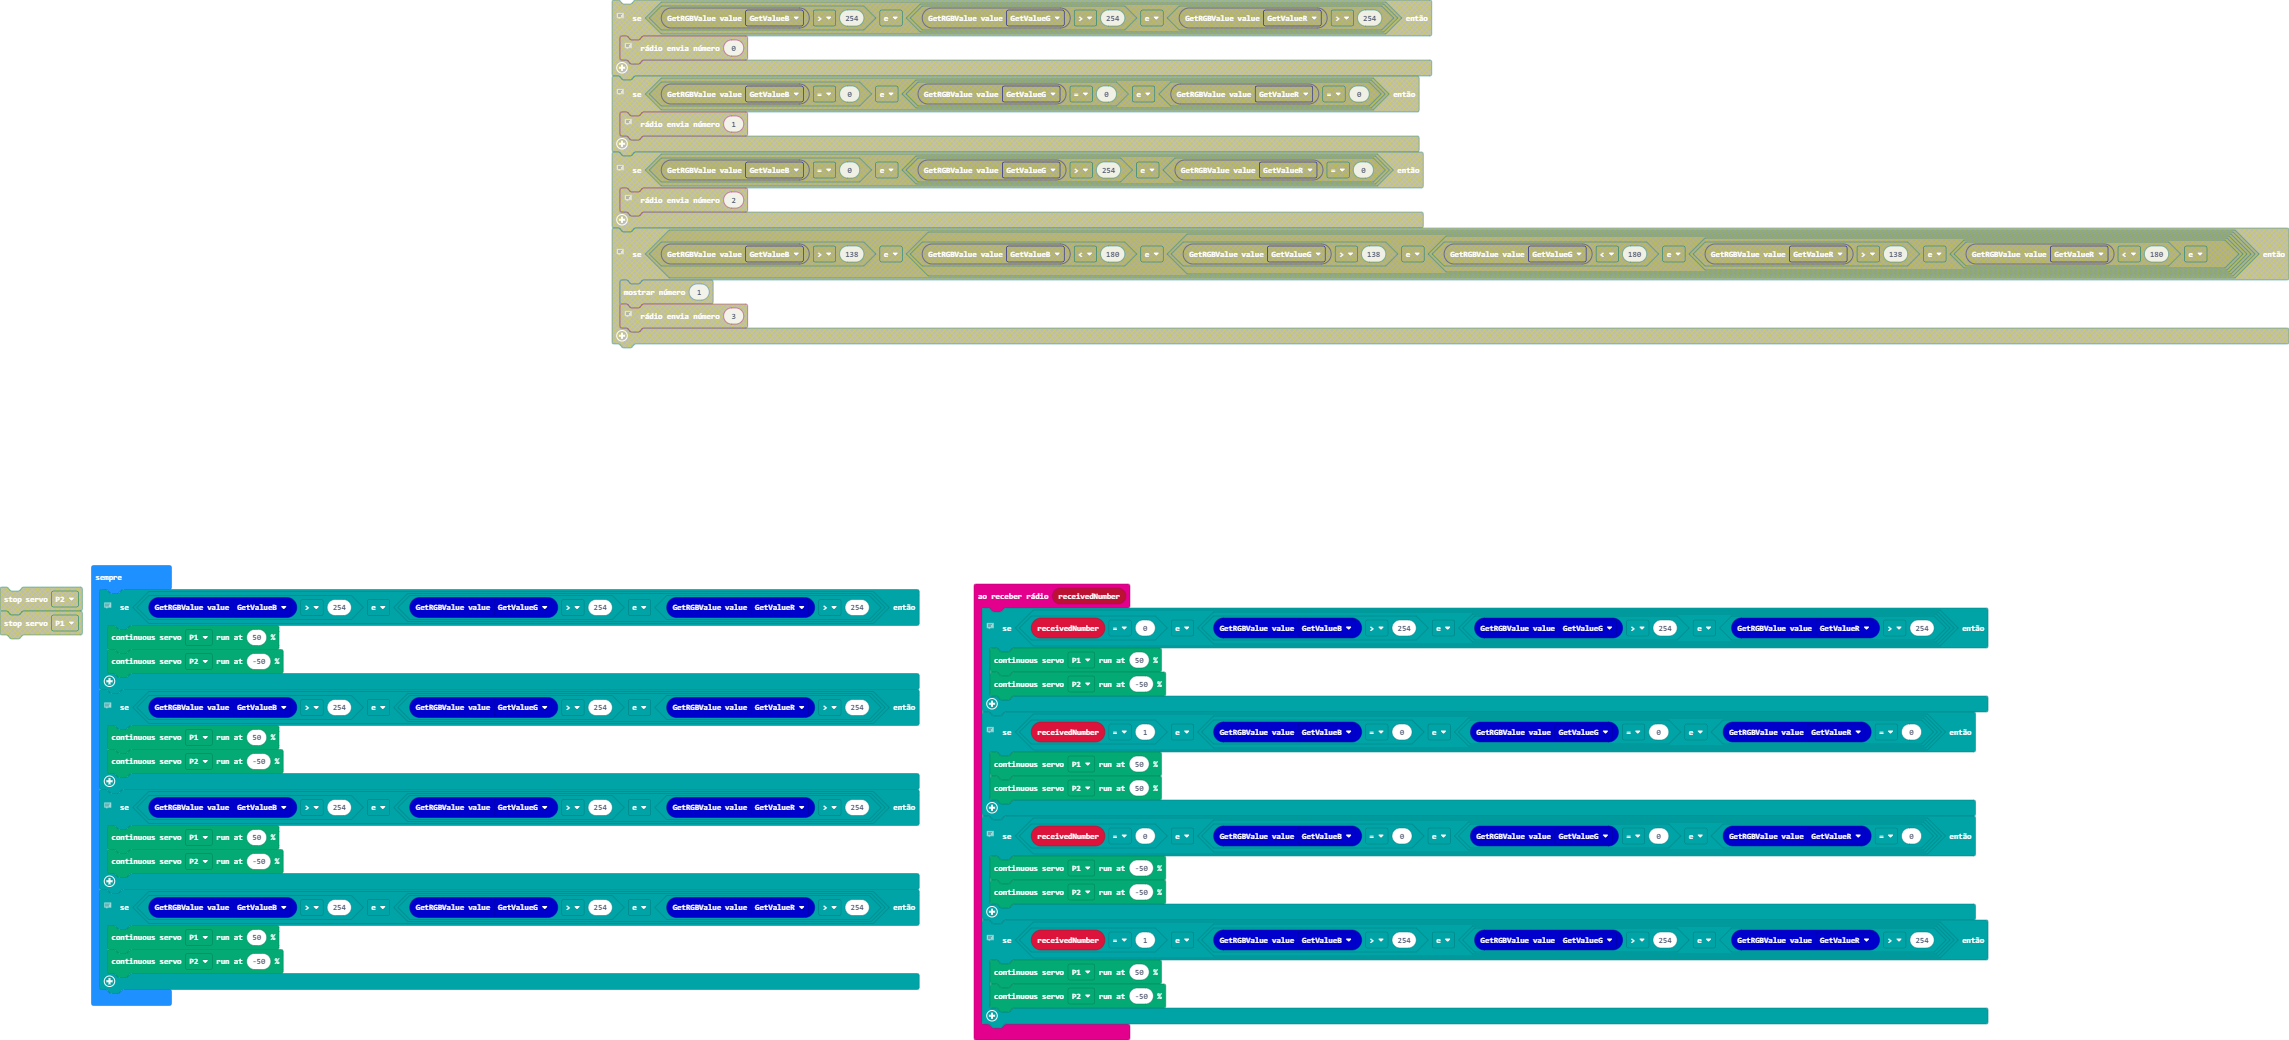
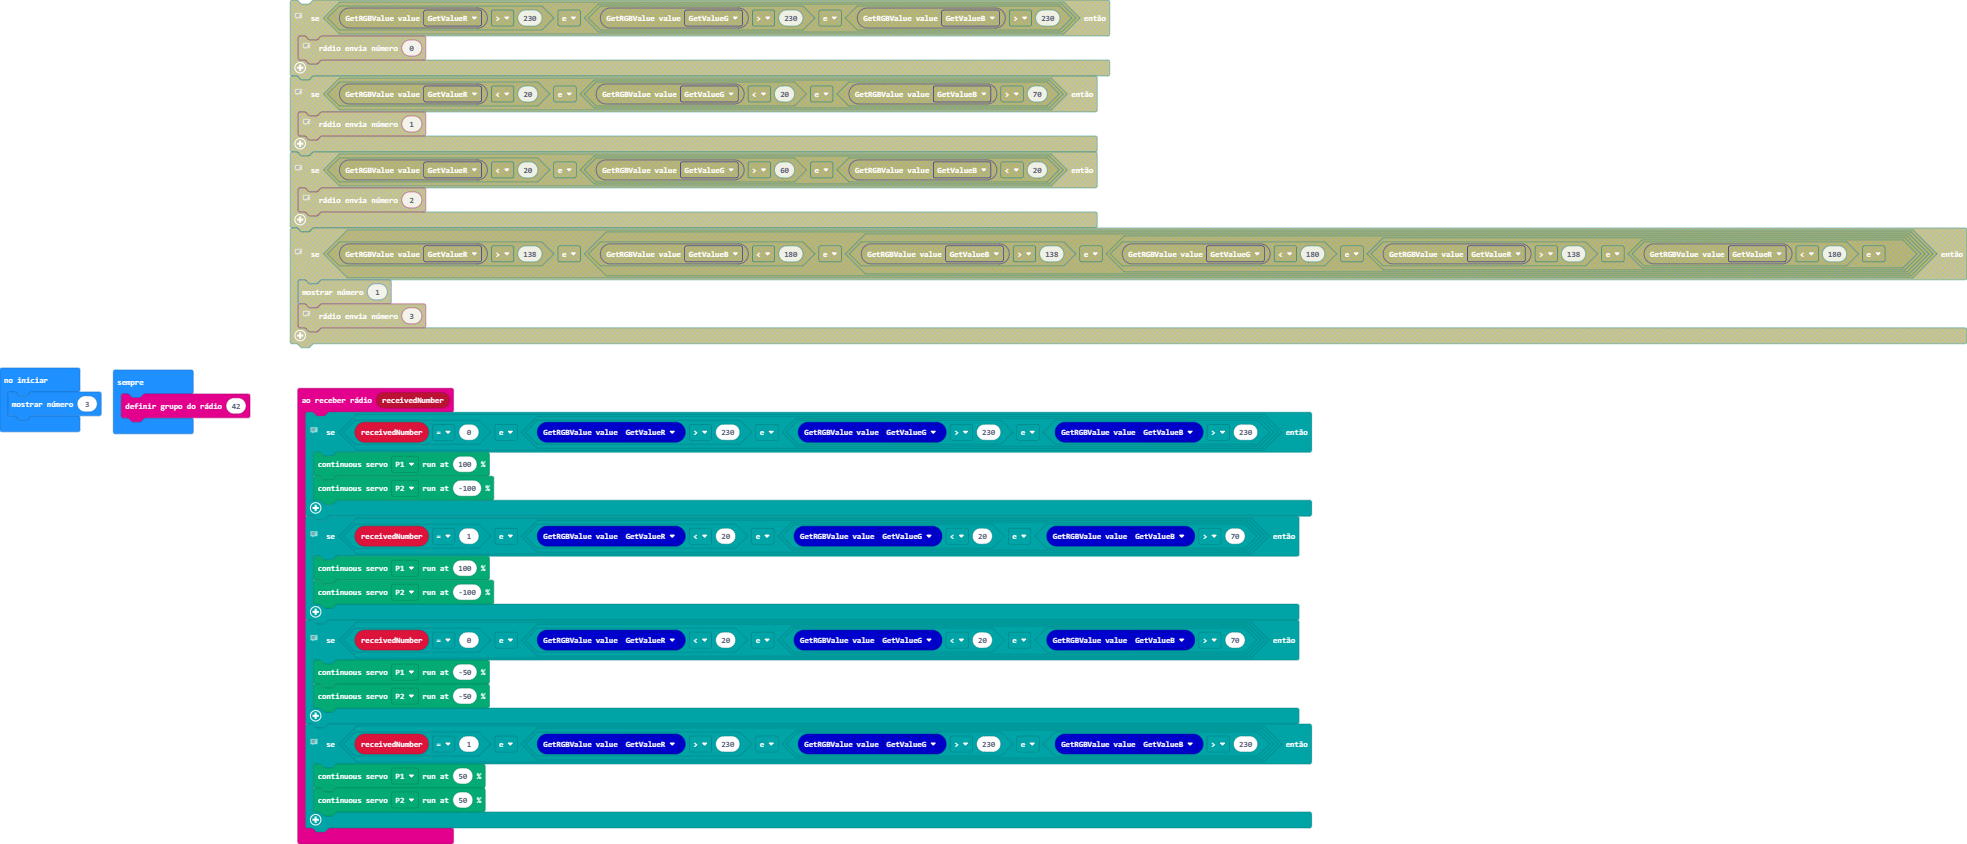
Atualização das cores para o bbc

diff --git a/main.ts b/main.ts
@@ -1,44 +1,26 @@
 radio.onReceivedNumber(function (receivedNumber) {
     // Branco e branco
-    if (receivedNumber == 0 && (Module_World_Color.GetRGBValue(Module_World_Color.enGetRGB.GetValueB) > 254 && (Module_World_Color.GetRGBValue(Module_World_Color.enGetRGB.GetValueG) > 254 && Module_World_Color.GetRGBValue(Module_World_Color.enGetRGB.GetValueR) > 254))) {
-        servos.P1.run(50)
-        servos.P2.run(-50)
+    if (receivedNumber == 0 && (Module_World_Color.GetRGBValue(Module_World_Color.enGetRGB.GetValueR) > 230 && (Module_World_Color.GetRGBValue(Module_World_Color.enGetRGB.GetValueG) > 230 && Module_World_Color.GetRGBValue(Module_World_Color.enGetRGB.GetValueB) > 230))) {
+        servos.P1.run(100)
+        servos.P2.run(-100)
     }
     // Preto e preto
-    if (receivedNumber == 1 && (Module_World_Color.GetRGBValue(Module_World_Color.enGetRGB.GetValueB) == 0 && (Module_World_Color.GetRGBValue(Module_World_Color.enGetRGB.GetValueG) == 0 && Module_World_Color.GetRGBValue(Module_World_Color.enGetRGB.GetValueR) == 0))) {
-        servos.P1.run(50)
-        servos.P2.run(50)
+    if (receivedNumber == 1 && (Module_World_Color.GetRGBValue(Module_World_Color.enGetRGB.GetValueR) < 20 && (Module_World_Color.GetRGBValue(Module_World_Color.enGetRGB.GetValueG) < 20 && Module_World_Color.GetRGBValue(Module_World_Color.enGetRGB.GetValueB) > 70))) {
+        servos.P1.run(100)
+        servos.P2.run(-100)
     }
     // Branco e preto
-    if (receivedNumber == 0 && (Module_World_Color.GetRGBValue(Module_World_Color.enGetRGB.GetValueB) == 0 && (Module_World_Color.GetRGBValue(Module_World_Color.enGetRGB.GetValueG) == 0 && Module_World_Color.GetRGBValue(Module_World_Color.enGetRGB.GetValueR) == 0))) {
+    if (receivedNumber == 0 && (Module_World_Color.GetRGBValue(Module_World_Color.enGetRGB.GetValueR) < 20 && (Module_World_Color.GetRGBValue(Module_World_Color.enGetRGB.GetValueG) < 20 && Module_World_Color.GetRGBValue(Module_World_Color.enGetRGB.GetValueB) > 70))) {
         servos.P1.run(-50)
         servos.P2.run(-50)
     }
     // Preto e branco
-    if (receivedNumber == 1 && (Module_World_Color.GetRGBValue(Module_World_Color.enGetRGB.GetValueB) > 254 && (Module_World_Color.GetRGBValue(Module_World_Color.enGetRGB.GetValueG) > 254 && Module_World_Color.GetRGBValue(Module_World_Color.enGetRGB.GetValueR) > 254))) {
+    if (receivedNumber == 1 && (Module_World_Color.GetRGBValue(Module_World_Color.enGetRGB.GetValueR) > 230 && (Module_World_Color.GetRGBValue(Module_World_Color.enGetRGB.GetValueG) > 230 && Module_World_Color.GetRGBValue(Module_World_Color.enGetRGB.GetValueB) > 230))) {
         servos.P1.run(50)
-        servos.P2.run(-50)
+        servos.P2.run(50)
     }
 })
+basic.showNumber(3)
 basic.forever(function () {
-    // Branco e branco
-    if (Module_World_Color.GetRGBValue(Module_World_Color.enGetRGB.GetValueB) > 254 && (Module_World_Color.GetRGBValue(Module_World_Color.enGetRGB.GetValueG) > 254 && Module_World_Color.GetRGBValue(Module_World_Color.enGetRGB.GetValueR) > 254)) {
-        servos.P1.run(50)
-        servos.P2.run(-50)
-    }
-    // Branco e Preto
-    if (Module_World_Color.GetRGBValue(Module_World_Color.enGetRGB.GetValueB) > 254 && (Module_World_Color.GetRGBValue(Module_World_Color.enGetRGB.GetValueG) > 254 && Module_World_Color.GetRGBValue(Module_World_Color.enGetRGB.GetValueR) > 254)) {
-        servos.P1.run(50)
-        servos.P2.run(-50)
-    }
-    // Preto e Branco
-    if (Module_World_Color.GetRGBValue(Module_World_Color.enGetRGB.GetValueB) > 254 && (Module_World_Color.GetRGBValue(Module_World_Color.enGetRGB.GetValueG) > 254 && Module_World_Color.GetRGBValue(Module_World_Color.enGetRGB.GetValueR) > 254)) {
-        servos.P1.run(50)
-        servos.P2.run(-50)
-    }
-    // Preto e Preto
-    if (Module_World_Color.GetRGBValue(Module_World_Color.enGetRGB.GetValueB) > 254 && (Module_World_Color.GetRGBValue(Module_World_Color.enGetRGB.GetValueG) > 254 && Module_World_Color.GetRGBValue(Module_World_Color.enGetRGB.GetValueR) > 254)) {
-        servos.P1.run(50)
-        servos.P2.run(-50)
-    }
+    radio.setGroup(42)
 })
